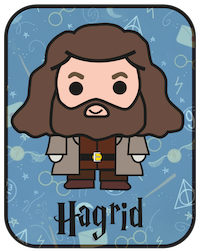
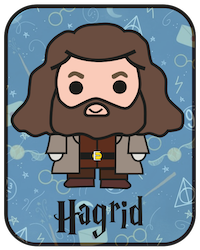
Size card images with its correct aspect radio for accessibility

diff --git a/assets/css/style.css b/assets/css/style.css
@@ -156,7 +156,7 @@ justify-content: center;
 /* Code taken from https://www.w3schools.com/howto/howto_css_flip_card.asp*/
 .flip-card{
   width: 200px;
-  height:227px;
+  height:250px;
   perspective: 1000px;
   object-fit:cover;
   transition: transform .5s;
